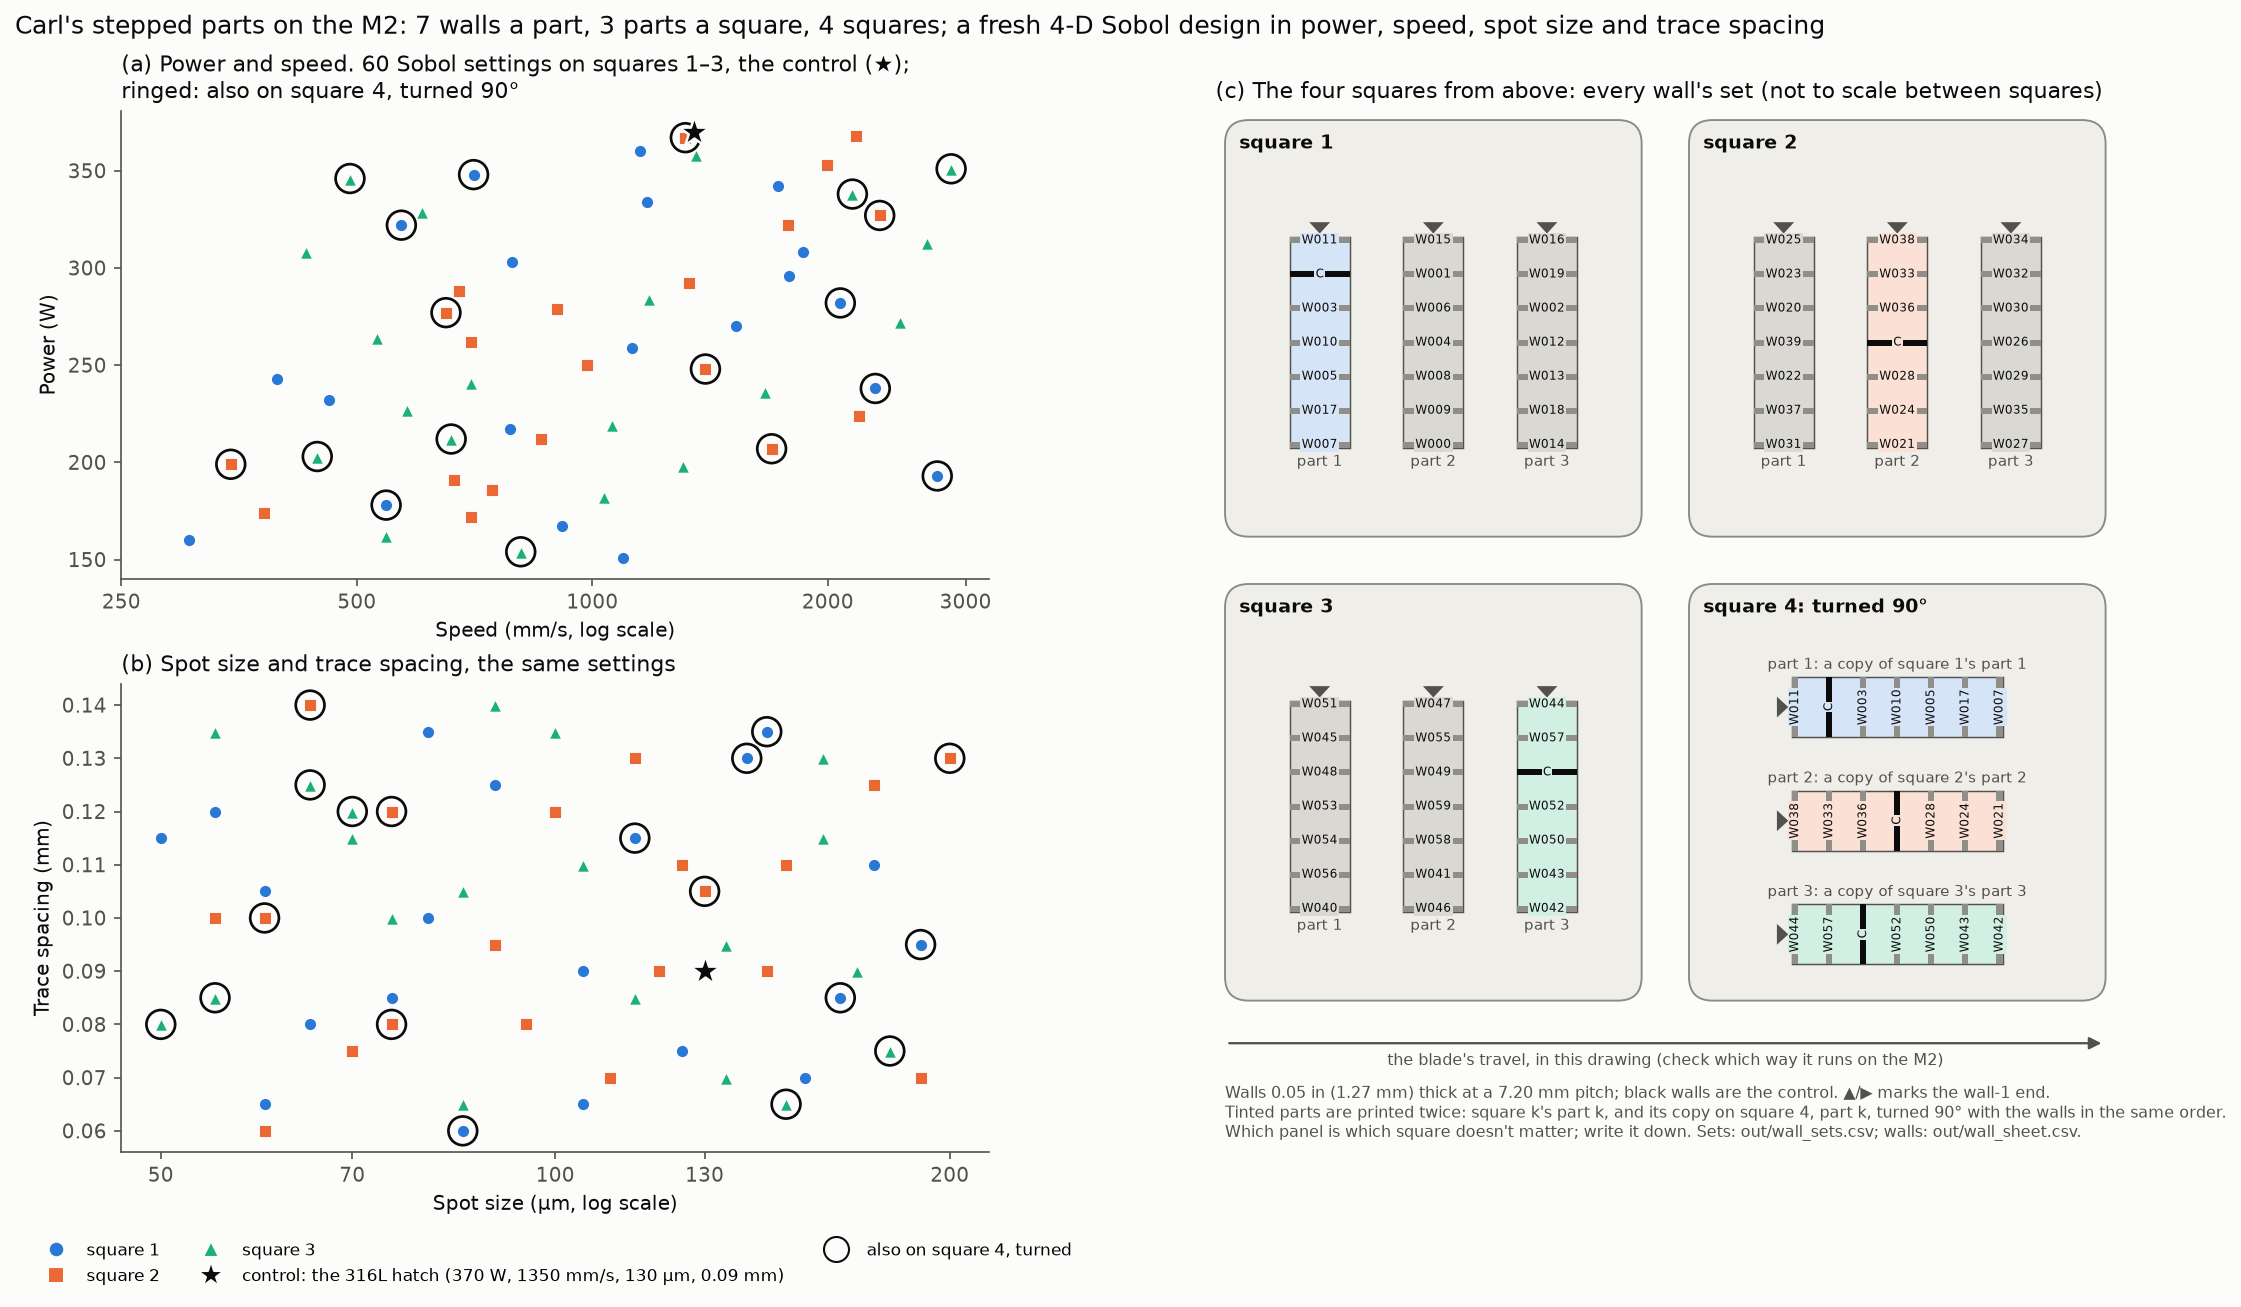
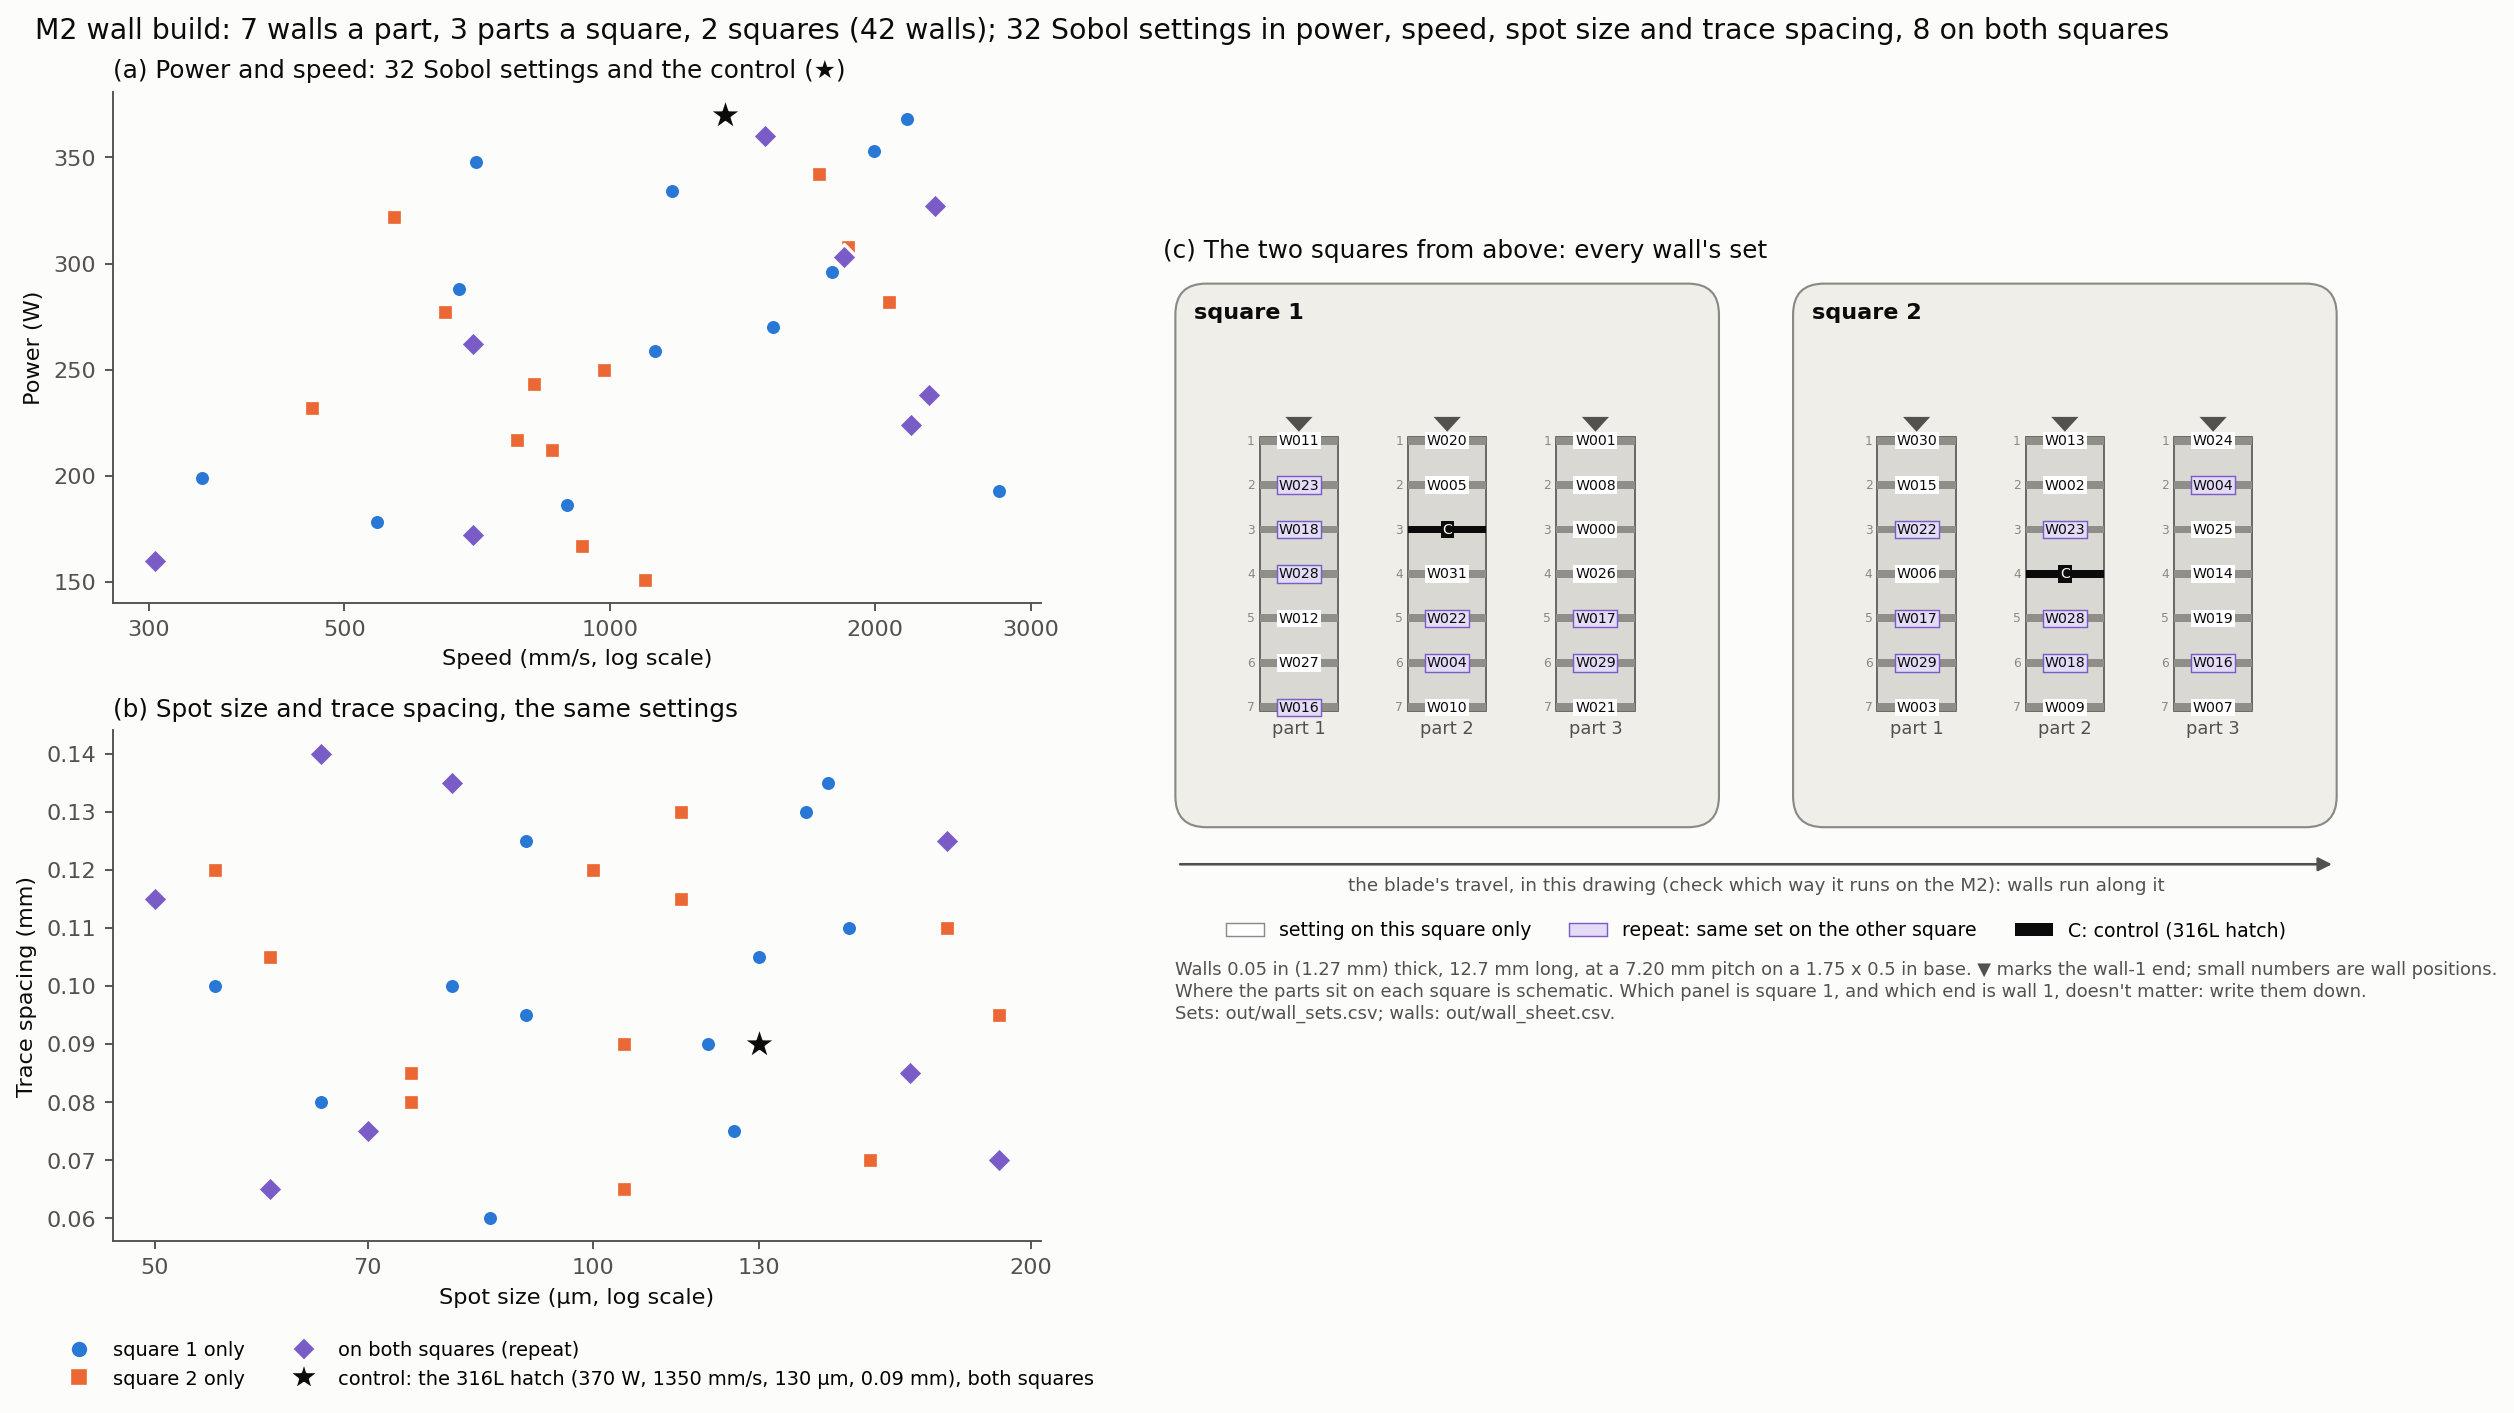
M2 walls: redraw the design figure for the 2-square build (top view and legend)
Panels (a) and (b) mark the 8 repeats; panel (c) shows both squares from above with every
wall's set, repeats tinted and the control in black. The figure is redrawn from the CSVs,
so the wall assignments are the ones posted to Carl.

diff --git a/lpbf-runs/m2-track-design/wall_sheet.py b/lpbf-runs/m2-track-design/wall_sheet.py
@@ -3,7 +3,7 @@
     python wall_sheet.py          # -> out/wall_sheet.csv (42 walls) and out/wall_sets.csv (the 33 sets to make), with
                                   #    Eagar-Tsai columns (many minutes when the points are not cached)
     python wall_sheet.py noet     # the same without Eagar-Tsai (seconds); how the 2026-11-19 sheet was made
-    (the figure, out/m2-wall-design.png, still draws the earlier 4-square layout and is not redrawn)
+    python wall_sheet.py figure   # redraw out/m2-wall-design.png from the CSVs
     python wall_sheet.py fresh    # recompute every Eagar-Tsai point instead of reusing those already in out/
 
 The part (Carl's drawing in PR #243, 2026-11-17): a base about 1.75 x 0.5 in with thin walls standing on it, each
@@ -283,30 +283,31 @@ def figure(sheet: list[dict], path: Path) -> None:
 
     plt.rcParams.update({"font.size": 9.5, "axes.edgecolor": INK2, "axes.labelcolor": INK, "xtick.color": INK2,
                          "ytick.color": INK2, "axes.titlesize": 10.5})
-    fig = plt.figure(figsize=(15.2, 8.6), constrained_layout=True)
+    fig = plt.figure(figsize=(15.2, 8.2), constrained_layout=True)
     fig.set_facecolor(SURFACE)
-    gs = fig.add_gridspec(2, 2, width_ratios=[0.9, 1.1])
-    turned = {r["set"] for r in sheet if int(r["square"]) == TURNED}
+    gs = fig.add_gridspec(2, 2, width_ratios=[0.9, 1.15])
     f = lambda r, k: float(r[k])  # noqa: E731
-    panels = [(fig.add_subplot(gs[0, 0]), "speed_mm_s", "power_W", "Speed (mm/s, log scale)", "Power (W)", True,
-               f"(a) Power and speed. {N_SOBOL} Sobol settings on squares 1–3, the control (★);\n"
-               "ringed: also on square 4, turned 90°"),
+    first = {}                                   # one row per set for the scatter panels
+    for r in sheet:
+        first.setdefault(r["set"], r)
+    REP = "#7a5cc7"                              # repeats: printed on both squares
+    panels = [(fig.add_subplot(gs[0, 0]), "speed_mm_s", "power_W", "Speed (mm/s, log scale)", "Power (W)",
+               f"(a) Power and speed: {N_SOBOL} Sobol settings and the control (★)"),
               (fig.add_subplot(gs[1, 0]), "spot_um", "trace_spacing_mm", "Spot size (µm, log scale)",
-               "Trace spacing (mm)", True, "(b) Spot size and trace spacing, the same settings")]
-    for ax, xk, yk, xl, yl, logx, title in panels:
+               "Trace spacing (mm)", "(b) Spot size and trace spacing, the same settings")]
+    for ax, xk, yk, xl, yl, title in panels:
         ax.set_facecolor(SURFACE)
-        for square in range(1, MAP_SQUARES + 1):
+        for square in range(1, SQUARES + 1):
             c, m = SQUARE_STYLE[square]
-            rs = [r for r in sheet if int(r["square"]) == square and r["set"] != "C"]
-            ax.scatter([f(r, xk) for r in rs], [f(r, yk) for r in rs], s=46 if m != "^" else 54, marker=m, c=c,
-                       edgecolors=SURFACE, linewidths=1.4, zorder=4)
-            rt = [r for r in rs if r["set"] in turned]
-            ax.scatter([f(r, xk) for r in rt], [f(r, yk) for r in rt], s=190, marker="o", facecolors="none",
-                       edgecolors=INK, linewidths=1.3, zorder=5)
-        c0 = next(r for r in sheet if r["set"] == "C")
+            rs = [r for r in first.values() if r["repeat"] == "" and int(r["square"]) == square]
+            ax.scatter([f(r, xk) for r in rs], [f(r, yk) for r in rs], s=48, marker=m, c=c, edgecolors=SURFACE,
+                       linewidths=1.4, zorder=4)
+        rr = [r for r in first.values() if r["repeat"] == "yes"]
+        ax.scatter([f(r, xk) for r in rr], [f(r, yk) for r in rr], s=60, marker="D", c=REP, edgecolors=SURFACE,
+                   linewidths=1.4, zorder=4)
+        c0 = first["C"]
         ax.scatter([f(c0, xk)], [f(c0, yk)], s=230, marker="*", c=INK, edgecolors=SURFACE, linewidths=1.2, zorder=6)
-        if logx:
-            ax.set_xscale("log")
+        ax.set_xscale("log")
         ax.minorticks_off()
         ax.set_xlabel(xl)
         ax.set_ylabel(yl)
@@ -314,81 +315,71 @@ def figure(sheet: list[dict], path: Path) -> None:
         for sp in ("top", "right"):
             ax.spines[sp].set_visible(False)
     ax0, ax1 = panels[0][0], panels[1][0]
-    ax0.set_xticks([250, 500, 1000, 2000, 3000])
-    ax0.set_xticklabels(["250", "500", "1000", "2000", "3000"])
+    ax0.set_xticks([300, 500, 1000, 2000, 3000])
+    ax0.set_xticklabels(["300", "500", "1000", "2000", "3000"])
     ax1.set_xticks([50, 70, 100, 130, 200])
     ax1.set_xticklabels(["50", "70", "100", "130", "200"])
     handles = [Line2D([], [], ls="none", marker=SQUARE_STYLE[p][1], ms=7.5, mfc=SQUARE_STYLE[p][0], mec=SURFACE,
-                      label=f"square {p}") for p in range(1, MAP_SQUARES + 1)]
-    handles += [Line2D([], [], ls="none", marker="*", ms=13, mfc=INK, mec=SURFACE,
-                       label="control: the 316L hatch (370 W, 1350 mm/s, 130 µm, 0.09 mm)"),
-                Line2D([], [], ls="none", marker="o", ms=12, mfc="none", mec=INK, label="also on square 4, turned")]
-    ax1.legend(handles=handles, loc="upper center", bbox_to_anchor=(0.5, -0.16), ncol=3, frameon=False, fontsize=8.2)
+                      label=f"square {p} only") for p in range(1, SQUARES + 1)]
+    handles += [Line2D([], [], ls="none", marker="D", ms=7, mfc=REP, mec=SURFACE, label="on both squares (repeat)"),
+                Line2D([], [], ls="none", marker="*", ms=13, mfc=INK, mec=SURFACE,
+                       label="control: the 316L hatch (370 W, 1350 mm/s, 130 µm, 0.09 mm), both squares")]
+    ax1.legend(handles=handles, loc="upper center", bbox_to_anchor=(0.5, -0.16), ncol=2, frameon=False, fontsize=8.2)
 
-    # (c) the four squares from above, with every wall's set (positions of the squares on the plate are placeholders)
+    # (c) the two squares from above, with every wall's set (the parts' places on each square are schematic)
     bx = fig.add_subplot(gs[:, 1])
     bx.set_facecolor(SURFACE)
     bx.set_aspect("equal")
     bx.axis("off")
-    S, GAP, SPACE = 88.0, 10.0, 24.0
-    origin = {1: (0.0, S + GAP), 2: (S + GAP, S + GAP), 3: (0.0, 0.0), 4: (S + GAP, 0.0)}
+    S, GAP, SPACE = 88.0, 12.0, 24.0
+    origin = {1: (0.0, 0.0), 2: (S + GAP, 0.0)}
     lab = {(int(r["square"]), int(r["part"]), int(r["wall"])): r for r in sheet}
+    box_own = dict(boxstyle="square,pad=0.12", fc="#ffffff", ec="none")
+    box_rep = dict(boxstyle="square,pad=0.12", fc="#e4dcf6", ec=REP, lw=0.6)
+    box_c = dict(boxstyle="square,pad=0.12", fc=INK, ec="none")
     for sq, (ox, oy) in origin.items():
         bx.add_patch(FancyBboxPatch((ox, oy), S, S, boxstyle="round,pad=0,rounding_size=5", fc="#efeee9", ec=MUTED,
                                     lw=0.9))
-        title = f"square {sq}" + (": turned 90°" if sq == TURNED else "")
-        bx.text(ox + 3, oy + S - 3, title, ha="left", va="top", fontsize=9, color=INK, fontweight="bold")
+        bx.text(ox + 3, oy + S - 3, f"square {sq}", ha="left", va="top", fontsize=9.5, color=INK, fontweight="bold")
         for k in range(PARTS):
-            copiedpart = sq == TURNED or k + 1 == sq
-            fill = TINT[k + 1] if copiedpart else "#d9d8d2"
-            box = dict(boxstyle="square,pad=0.12", fc=fill, ec="none")
-            if sq != TURNED:          # walls along the blade's travel (x): bases stand along y, wall 1 at the top
-                cx, cy = ox + S / 2 + (k - 1) * SPACE, oy + S / 2 - 3
-                top = cy + BASE_LEN_MM / 2
-                bx.add_patch(Rectangle((cx - WALL_LEN_MM / 2, cy - BASE_LEN_MM / 2), WALL_LEN_MM, BASE_LEN_MM,
-                                       fc=fill, ec=INK2, lw=0.7))
-                bx.add_patch(Polygon([(cx - 2.2, top + 3.2), (cx + 2.2, top + 3.2), (cx, top + 0.8)], closed=True,
-                                     fc=INK2, ec="none"))
-                bx.text(cx, cy - BASE_LEN_MM / 2 - 1.4, f"part {k + 1}", ha="center", va="top", fontsize=7.2,
-                        color=INK2)
-                for w in range(1, WALLS + 1):
-                    y = top - WALL_MM / 2 - (w - 1) * PITCH_MM
-                    r = lab[(sq, k + 1, w)]
-                    bx.add_patch(Rectangle((cx - WALL_LEN_MM / 2, y - WALL_MM / 2), WALL_LEN_MM, WALL_MM,
-                                           fc=INK if r["set"] == "C" else "#8f8e88", ec="none"))
-                    bx.text(cx, y, r["set"], ha="center", va="center", fontsize=5.6, color=INK, bbox=box)
-            else:                     # turned: bases lie along x, walls across the blade's travel, wall 1 at the left
-                cx, cy = ox + S / 2, oy + S / 2 - 6 + (1 - k) * SPACE
-                left = cx - BASE_LEN_MM / 2
-                bx.add_patch(Rectangle((left, cy - WALL_LEN_MM / 2), BASE_LEN_MM, WALL_LEN_MM, fc=fill, ec=INK2,
-                                       lw=0.7))
-                bx.add_patch(Polygon([(left - 3.2, cy - 2.2), (left - 3.2, cy + 2.2), (left - 0.8, cy)], closed=True,
-                                     fc=INK2, ec="none"))
-                bx.text(cx, cy + WALL_LEN_MM / 2 + 1.0, f"part {k + 1}: a copy of square {k + 1}'s part {k + 1}",
-                        ha="center", va="bottom", fontsize=7.0, color=INK2)
-                for w in range(1, WALLS + 1):
-                    x = left + WALL_MM / 2 + (w - 1) * PITCH_MM
-                    r = lab[(sq, k + 1, w)]
-                    bx.add_patch(Rectangle((x - WALL_MM / 2, cy - WALL_LEN_MM / 2), WALL_MM, WALL_LEN_MM,
-                                           fc=INK if r["set"] == "C" else "#8f8e88", ec="none"))
-                    bx.text(x, cy, r["set"], ha="center", va="center", fontsize=5.6, color=INK, rotation=90, bbox=box)
-    bx.add_patch(FancyArrowPatch((0.0, -9.0), (2 * S + GAP, -9.0), arrowstyle="-|>", mutation_scale=12, color=INK2,
+            cx, cy = ox + S / 2 + (k - 1) * SPACE, oy + S / 2 - 3
+            top = cy + BASE_LEN_MM / 2
+            bx.add_patch(Rectangle((cx - WALL_LEN_MM / 2, cy - BASE_LEN_MM / 2), WALL_LEN_MM, BASE_LEN_MM,
+                                   fc="#d9d8d2", ec=INK2, lw=0.7))
+            bx.add_patch(Polygon([(cx - 2.2, top + 3.2), (cx + 2.2, top + 3.2), (cx, top + 0.8)], closed=True,
+                                 fc=INK2, ec="none"))
+            bx.text(cx, cy - BASE_LEN_MM / 2 - 1.4, f"part {k + 1}", ha="center", va="top", fontsize=7.6, color=INK2)
+            for w in range(1, WALLS + 1):
+                y = top - WALL_MM / 2 - (w - 1) * PITCH_MM
+                r = lab[(sq, k + 1, w)]
+                ctrl = r["set"] == "C"
+                bx.add_patch(Rectangle((cx - WALL_LEN_MM / 2, y - WALL_MM / 2), WALL_LEN_MM, WALL_MM,
+                                       fc=INK if ctrl else "#8f8e88", ec="none"))
+                bx.text(cx - WALL_LEN_MM / 2 - 0.8, y, str(w), ha="right", va="center", fontsize=5.2, color=MUTED)
+                bx.text(cx, y, "C" if ctrl else r["set"], ha="center", va="center", fontsize=6.0,
+                        color=SURFACE if ctrl else INK,
+                        bbox=box_c if ctrl else box_rep if r["repeat"] == "yes" else box_own)
+    bx.add_patch(FancyArrowPatch((0.0, -6.0), (2 * S + GAP, -6.0), arrowstyle="-|>", mutation_scale=12, color=INK2,
                                  lw=1.1))
-    bx.text(S + GAP / 2, -11.0, "the blade's travel, in this drawing (check which way it runs on the M2)",
-            ha="center", va="top", fontsize=7.8, color=INK2)
-    bx.text(0.0, -17.5,
-            f"Walls 0.05 in ({WALL_MM:.2f} mm) thick at a {PITCH_MM:.2f} mm pitch; black walls are the control. "
-            "▲/▶ marks the wall-1 end.\nTinted parts are printed twice: square k's part k, and its copy on square 4, "
-            "part k, turned 90° with the walls in the same order.\nWhich panel is which square doesn't matter; "
-            "write it down. Sets: out/wall_sets.csv; walls: out/wall_sheet.csv.",
-            ha="left", va="top", fontsize=7.6, color=INK2, linespacing=1.25)
+    bx.text(S + GAP / 2, -8.0, "the blade's travel, in this drawing (check which way it runs on the M2): "
+            "walls run along it", ha="center", va="top", fontsize=7.8, color=INK2)
+    lh = [Rectangle((0, 0), 1, 1, fc="#ffffff", ec=MUTED, lw=0.6, label="setting on this square only"),
+          Rectangle((0, 0), 1, 1, fc="#e4dcf6", ec=REP, lw=0.6, label="repeat: same set on the other square"),
+          Rectangle((0, 0), 1, 1, fc=INK, ec="none", label="C: control (316L hatch)")]
+    bx.legend(handles=lh, loc="upper center", bbox_to_anchor=(0.5, 0.2), ncol=3, frameon=False, fontsize=8.0)
+    bx.text(0.0, -21.5,
+            f"Walls 0.05 in ({WALL_MM:.2f} mm) thick, {WALL_LEN_MM:.1f} mm long, at a {PITCH_MM:.2f} mm pitch on a "
+            "1.75 x 0.5 in base. ▼ marks the wall-1 end; small numbers are wall positions.\n"
+            "Where the parts sit on each square is schematic. Which panel is square 1, and which end is wall 1, "
+            "doesn't matter: write them down.\nSets: out/wall_sets.csv; walls: out/wall_sheet.csv.",
+            ha="left", va="top", fontsize=7.6, color=INK2, linespacing=1.3)
     bx.set_xlim(-2, 2 * S + GAP + 2)
-    bx.set_ylim(-32, 2 * S + GAP + 2)
-    bx.set_title("(c) The four squares from above: every wall's set (not to scale between squares)", loc="left",
-                 color=INK)
-    fig.suptitle("Carl's stepped parts on the M2: 7 walls a part, 3 parts a square, 4 squares; a fresh 4-D Sobol design "
-                 "in power, speed, spot size and trace spacing", x=0.01, ha="left", fontsize=12, color=INK)
-    fig.savefig(path, dpi=150, facecolor=SURFACE, bbox_inches="tight")
+    bx.set_ylim(-38, S + 2)
+    bx.set_title("(c) The two squares from above: every wall's set", loc="left", color=INK)
+    fig.suptitle(f"M2 wall build: 7 walls a part, 3 parts a square, 2 squares ({len(sheet)} walls); "
+                 f"{N_SOBOL} Sobol settings in power, speed, spot size and trace spacing, {N_REPEAT} on both squares",
+                 x=0.01, ha="left", fontsize=12, color=INK)
+    fig.savefig(path, dpi=170, facecolor=SURFACE, bbox_inches="tight")
     plt.close(fig)
 
 
@@ -408,6 +399,7 @@ if __name__ == "__main__":
     sheet = with_model(walls(), et=et)
     write(OUT / "wall_sheet.csv", sheet)
     write(OUT / "wall_sets.csv", sets_table(sheet))
+    figure([{k: str(x) for k, x in r.items()} for r in sheet], OUT / "m2-wall-design.png")
 
     sets = {r["set"] for r in sheet}
     print(f"{len(sheet)} walls, {len(sets)} parameter sets ({len(sets) - 1} Sobol settings and the control)")
